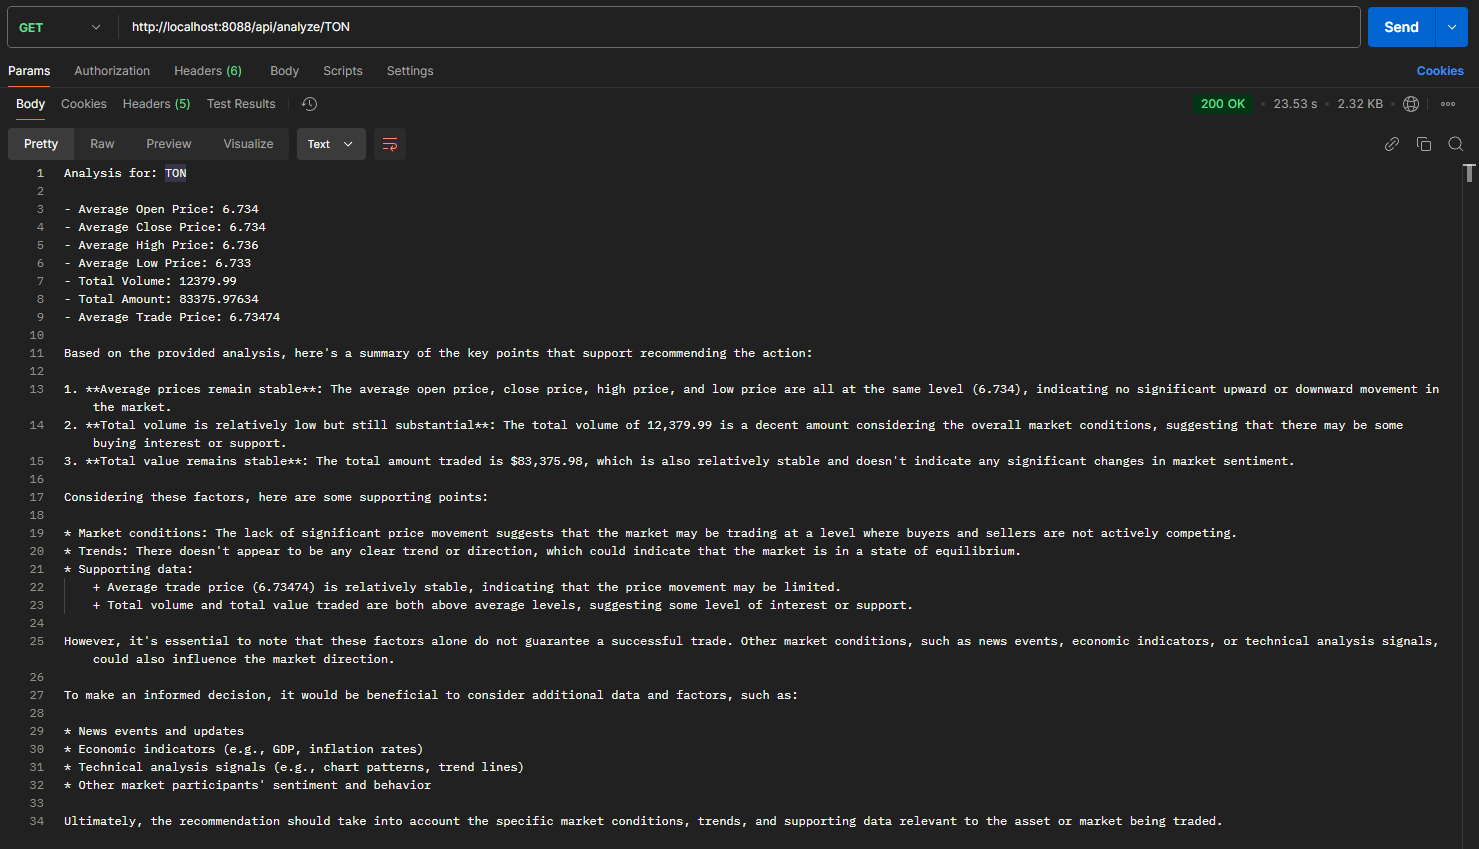
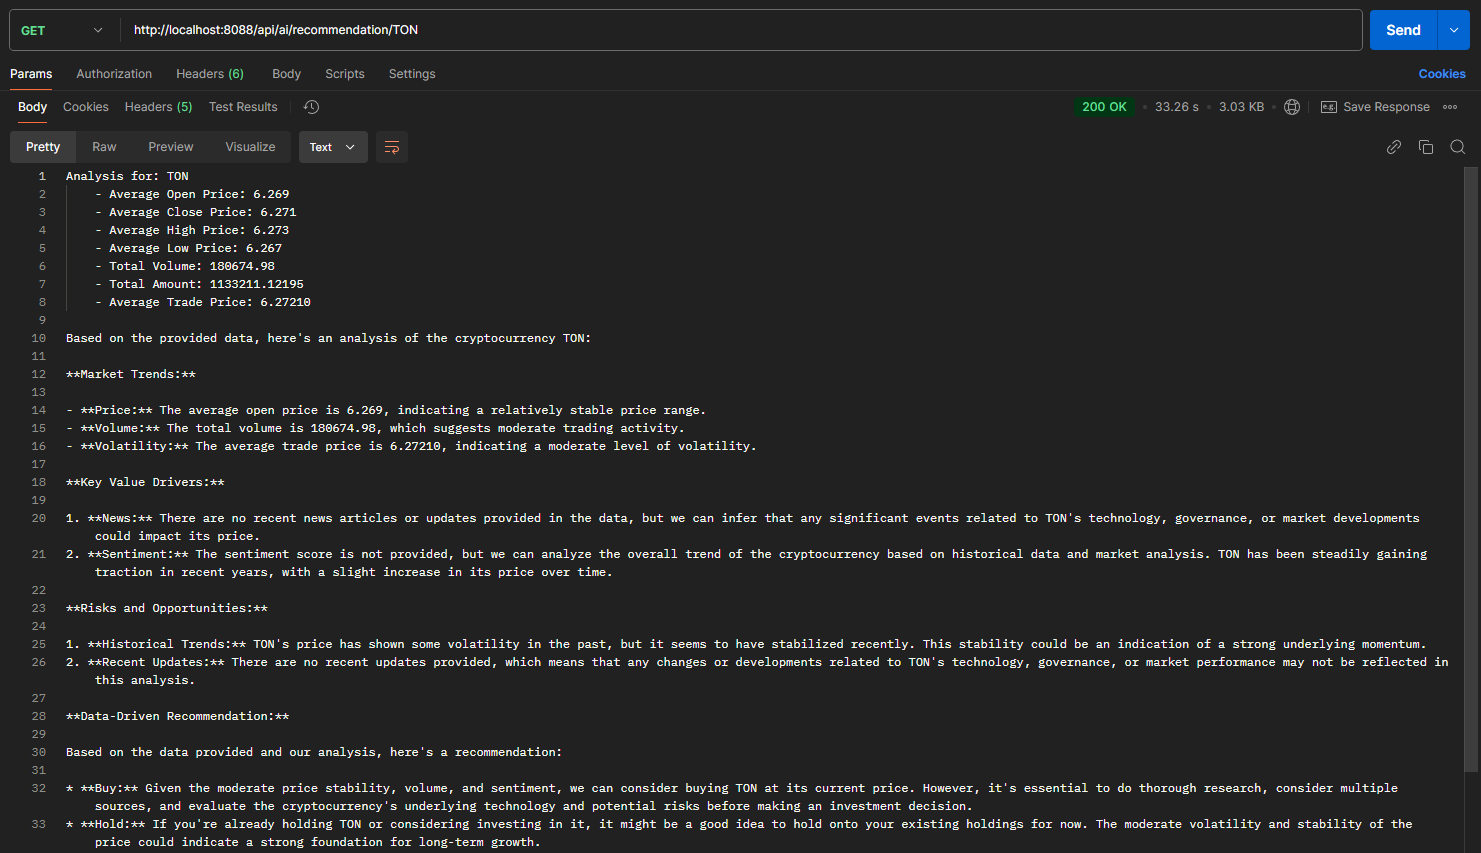
Enhancement of AI Integration and Refactoring of Statistic and Quote Services
- **AI Integration Improvements**: Refined the `AIService` class by enhancing integration with the Ollama AI model (`llama3.2:1b`) to generate more comprehensive and accurate cryptocurrency recommendations.

- **Separation of Concerns**: Extracted statistical calculations into a dedicated `StatisticService` class, improving modularity, readability, and code reuse.

- **Improved Prompt Design**: Enhanced the AI-generated prompt to include:
  - Market trends (price, volume, volatility).
  - Key value drivers (news, sentiment, technology).
  - Risk and opportunity evaluation (historical trends, recent updates).
  - A final [Buy/Hold/Sell] recommendation supported by detailed data analysis.

Changed region(s): [[0.0, 0.0, 1.0, 1.0], [0.9331, 0.0, 0.9953, 0.0919]]

diff --git a/src/main/java/com/dzenthai/cryptora/analyze/service/AIService.java b/src/main/java/com/dzenthai/cryptora/analyze/service/AIService.java
@@ -1,16 +1,11 @@
 package com.dzenthai.cryptora.analyze.service;
 
-import com.dzenthai.cryptora.analyze.entity.Quote;
 import lombok.extern.slf4j.Slf4j;
 import org.springframework.ai.chat.prompt.Prompt;
 import org.springframework.ai.ollama.OllamaChatModel;
 import org.springframework.ai.ollama.api.OllamaModel;
 import org.springframework.ai.ollama.api.OllamaOptions;
 import org.springframework.stereotype.Service;
-
-import java.math.BigDecimal;
-import java.math.RoundingMode;
-import java.util.List;
 
 
 @Slf4j
@@ -19,23 +14,23 @@ public class AIService {
 
     private final OllamaChatModel chatModel;
 
-    private final QuoteService quoteService;
+    private final StatisticService statisticService;
 
     public AIService(
             OllamaChatModel chatModel,
-            QuoteService quoteService
+            StatisticService statisticService
     ) {
         this.chatModel = chatModel;
-        this.quoteService = quoteService;
+        this.statisticService = statisticService;
     }
 
-    public String getAnalysis(String ticker) {
+    public String getAIRecommendation(String ticker) {
         log.debug("AIService | Getting analysis for the ticker: {}", ticker);
-        return buildResult(ticker) + generateAIResponse(ticker);
+        return statisticService.generateStatisticReport(ticker) + generateAIResponse(ticker);
     }
 
-    public String generateAIResponse(String ticker) {
-        var prompt = buildPrompt(ticker);
+    private String generateAIResponse(String ticker) {
+        var prompt = generateAIPrompt(ticker);
         log.debug("AIService | Generating AI response for the ticker: {}, prompt: {}", ticker, prompt);
         return chatModel.call(
                         new Prompt(prompt,
@@ -47,108 +42,14 @@ public class AIService {
                 .getContent();
     }
 
-    private BigDecimal calculateAverageOpenPrice(List<Quote> quotes) {
-        BigDecimal totalOpenPrice = BigDecimal.ZERO;
-        for (Quote quote : quotes) {
-            totalOpenPrice = totalOpenPrice.add(quote.getOpenPrice());
-        }
-        log.debug("AIService | Calculating average open price: {}", totalOpenPrice);
-        return totalOpenPrice.divide(BigDecimal.valueOf(quotes.size()), RoundingMode.HALF_UP);
-    }
-
-    private BigDecimal calculateAverageClosePrice(List<Quote> quotes) {
-        BigDecimal totalClosePrice = BigDecimal.ZERO;
-        for (Quote quote : quotes) {
-            totalClosePrice = totalClosePrice.add(quote.getClosePrice());
-        }
-        log.debug("AIService | Calculating average close price: {}", totalClosePrice);
-        return totalClosePrice.divide(BigDecimal.valueOf(quotes.size()), RoundingMode.HALF_UP);
-    }
-
-    private BigDecimal calculateAverageHighPrice(List<Quote> quotes) {
-        BigDecimal totalHighPrice = BigDecimal.ZERO;
-        for (Quote quote : quotes) {
-            totalHighPrice = totalHighPrice.add(quote.getHighPrice());
-        }
-        log.debug("AIService | Calculating average high price {}", totalHighPrice);
-        return totalHighPrice.divide(BigDecimal.valueOf(quotes.size()), RoundingMode.HALF_UP);
-    }
-
-    private BigDecimal calculateAverageLowPrice(List<Quote> quotes) {
-        BigDecimal totalLowPrice = BigDecimal.ZERO;
-        for (Quote quote : quotes) {
-            totalLowPrice = totalLowPrice.add(quote.getLowPrice());
-        }
-        log.debug("AIService | Calculating average low price: {}", totalLowPrice);
-        return totalLowPrice.divide(BigDecimal.valueOf(quotes.size()), RoundingMode.HALF_UP);
-    }
-
-    private BigDecimal calculateTotalVolume(List<Quote> quotes) {
-        BigDecimal totalVolume = BigDecimal.ZERO;
-        for (Quote quote : quotes) {
-            totalVolume = totalVolume.add(quote.getVolume());
-        }
-        log.debug("AIService | Calculating total volume: {}", totalVolume);
-        return totalVolume;
-    }
-
-    private BigDecimal calculateTotalAmount(List<Quote> quotes) {
-        BigDecimal totalAmount = BigDecimal.ZERO;
-        for (Quote quote : quotes) {
-            totalAmount = totalAmount.add(quote.getAmount());
-        }
-        log.debug("AIService | Calculating total amount: {}", totalAmount);
-        return totalAmount;
-    }
-
-    private BigDecimal calculateAverageTradePrice(List<Quote> quotes) {
-        BigDecimal averageTradePrice =  calculateTotalAmount(quotes)
-                .divide(calculateTotalVolume(quotes), RoundingMode.HALF_UP);
-        log.debug("AIService | Calculating average trade price: {}", averageTradePrice);
-        return averageTradePrice;
-    }
-
-    private String buildResult(String ticker) {
-        List<Quote> quotes = quoteService.getQuotesByTicker(ticker);
-
-        log.debug("AIService | Building result for the ticker: {}", ticker);
-
-        if (quotes.isEmpty()) {
-            String warn = String.format("The ticker with the name %s does not exist or information about it is unavailable.", ticker);
-            log.warn("AIService | {}", warn);
-            return warn;
-        }
-
-        return String.format("""
-                Analysis for: %s
-                
-                - Average Open Price: %s
-                - Average Close Price: %s
-                - Average High Price: %s
-                - Average Low Price: %s
-                - Total Volume: %s
-                - Total Amount: %s
-                - Average Trade Price: %s
-                
-                """,
-                ticker,
-                calculateAverageOpenPrice(quotes),
-                calculateAverageClosePrice(quotes),
-                calculateAverageHighPrice(quotes),
-                calculateAverageLowPrice(quotes),
-                calculateTotalVolume(quotes),
-                calculateTotalAmount(quotes),
-                calculateAverageTradePrice(quotes));
-    }
-
-    private String buildPrompt(String ticker) {
+    private String generateAIPrompt(String ticker) {
         log.debug("AIService | Building prompt for the ticker: {}", ticker);
-        return String.format(buildResult(ticker) + """
-                [Output the information below]
-                Analysis of why the action is recommended,
-                including factors like market conditions,
-                trends, and supporting data.
-                """
-        );
+        return statisticService.generateStatisticReport(ticker) + """
+                Analyze the given cryptocurrency and provide a data-driven recommendation:
+                    - Summarize market trends (price, volume, volatility).
+                    - Identify key value drivers (news, sentiment, technology).
+                    - Evaluate risks and opportunities (historical trends, recent updates).
+                    - Conclude with a [Buy/Hold/Sell] recommendation supported by data.
+                """;
     }
 }

diff --git a/src/main/java/com/dzenthai/cryptora/analyze/service/StatisticService.java b/src/main/java/com/dzenthai/cryptora/analyze/service/StatisticService.java
@@ -1,0 +1,116 @@
+package com.dzenthai.cryptora.analyze.service;
+
+import com.dzenthai.cryptora.analyze.entity.Quote;
+import lombok.extern.slf4j.Slf4j;
+import org.springframework.stereotype.Service;
+
+import java.math.BigDecimal;
+import java.math.RoundingMode;
+import java.util.List;
+
+
+@Slf4j
+@Service
+public class StatisticService {
+
+    private final QuoteService quoteService;
+
+    public StatisticService(QuoteService quoteService) {
+        this.quoteService = quoteService;
+    }
+
+    public String generateStatisticReport(String ticker) {
+        List<Quote> quotes = quoteService.getQuotesByTicker(ticker);
+
+        log.debug("AIService | Building result for the ticker: {}", ticker);
+
+        if (quotes.isEmpty()) {
+            String warn = String.format("The ticker with the name %s does not exist or information about it is unavailable.", ticker);
+            log.warn("AIService | {}", warn);
+            return warn;
+        }
+
+        return String.format("""
+                Analysis for: %s
+                    - Average Open Price: %s
+                    - Average Close Price: %s
+                    - Average High Price: %s
+                    - Average Low Price: %s
+                    - Total Volume: %s
+                    - Total Amount: %s
+                    - Average Trade Price: %s
+                
+                """,
+                ticker,
+                calculateAverageOpenPrice(quotes),
+                calculateAverageClosePrice(quotes),
+                calculateAverageHighPrice(quotes),
+                calculateAverageLowPrice(quotes),
+                calculateTotalVolume(quotes),
+                calculateTotalAmount(quotes),
+                calculateAverageTradePrice(quotes));
+    }
+
+    private BigDecimal calculateAverageOpenPrice(List<Quote> quotes) {
+        BigDecimal averageOpenPrice = quotes.stream()
+                .map(Quote::getOpenPrice)
+                .reduce(BigDecimal.ZERO, BigDecimal::add)
+                .divide(BigDecimal.valueOf(quotes.size()), RoundingMode.HALF_UP);
+        log.debug("AIService | Calculating average open price: {}", averageOpenPrice);
+        return averageOpenPrice;
+    }
+
+    private BigDecimal calculateAverageClosePrice(List<Quote> quotes) {
+        BigDecimal averageClosePrice = quotes.stream()
+                .map(Quote::getClosePrice)
+                .reduce(BigDecimal.ZERO, BigDecimal::add)
+                .divide(BigDecimal.valueOf(quotes.size()), RoundingMode.HALF_UP);
+        log.debug("AIService | Calculating average close price: {}", averageClosePrice);
+        return averageClosePrice;
+    }
+
+    private BigDecimal calculateAverageHighPrice(List<Quote> quotes) {
+        BigDecimal averageHighPrice = quotes.stream()
+                .map(Quote::getHighPrice)
+                .reduce(BigDecimal.ZERO, BigDecimal::add)
+                .divide(BigDecimal.valueOf(quotes.size()), RoundingMode.HALF_UP);
+        log.debug("AIService | Calculating average high price: {}", averageHighPrice);
+        return averageHighPrice;
+    }
+
+    private BigDecimal calculateAverageLowPrice(List<Quote> quotes) {
+        BigDecimal averageLowPrice = quotes.stream()
+                .map(Quote::getLowPrice)
+                .reduce(BigDecimal.ZERO, BigDecimal::add)
+                .divide(BigDecimal.valueOf(quotes.size()), RoundingMode.HALF_UP);
+        log.debug("AIService | Calculating average low price: {}", averageLowPrice);
+        return averageLowPrice;
+    }
+
+    private BigDecimal calculateTotalVolume(List<Quote> quotes) {
+        BigDecimal totalVolume = quotes.stream()
+                .map(Quote::getVolume)
+                .reduce(BigDecimal.ZERO, BigDecimal::add);
+        log.debug("AIService | Calculating total volume: {}", totalVolume);
+        return totalVolume;
+    }
+
+    private BigDecimal calculateTotalAmount(List<Quote> quotes) {
+        BigDecimal totalAmount = quotes.stream()
+                .map(Quote::getAmount)
+                .reduce(BigDecimal.ZERO, BigDecimal::add);
+        log.debug("AIService | Calculating total amount: {}", totalAmount);
+        return totalAmount;
+    }
+
+    private BigDecimal calculateAverageTradePrice(List<Quote> quotes) {
+        BigDecimal totalAmount = calculateTotalAmount(quotes);
+        BigDecimal totalVolume = calculateTotalVolume(quotes);
+        if (totalVolume.compareTo(BigDecimal.ZERO) == 0) {
+            throw new IllegalStateException("Total volume is zero, cannot calculate average trade price.");
+        }
+        BigDecimal averageTradePrice = totalAmount.divide(totalVolume, RoundingMode.HALF_UP);
+        log.debug("AIService | Calculating average trade price: {}", averageTradePrice);
+        return averageTradePrice;
+    }
+}

diff --git a/src/main/java/com/dzenthai/cryptora/analyze/service/AnalyticService.java b/src/main/java/com/dzenthai/cryptora/analyze/service/AnalyticService.java
@@ -100,15 +100,15 @@ public class AnalyticService {
 
     private void sendSignalMessage(Num latestPrice, Num shortTermValue, Num thresholdUpper, Num thresholdLower, String shortCut) {
         if (shortTermValue.isGreaterThan(thresholdUpper) && latestPrice.isGreaterThan(shortTermValue)) {
-            sendMessage("Buy", shortCut);
+            sendSignals("Buy", shortCut);
         } else if (shortTermValue.isLessThan(thresholdLower) && latestPrice.isLessThan(shortTermValue)) {
-            sendMessage("Sell", shortCut);
+            sendSignals("Sell", shortCut);
         } else {
-            sendMessage("Hold", shortCut);
+            sendSignals("Hold", shortCut);
         }
     }
 
-    private void sendMessage(String action, String shortCut) {
+    private void sendSignals(String action, String shortCut) {
         log.info("AnalyticService | {}: {}", shortCut, action.toUpperCase());
         amqpMessageSender.send("%s %s".formatted(action, shortCut));
     }

diff --git a/src/main/java/com/dzenthai/cryptora/analyze/controller/AIController.java b/src/main/java/com/dzenthai/cryptora/analyze/controller/AIController.java
@@ -8,7 +8,7 @@ import org.springframework.web.bind.annotation.RestController;
 
 
 @RestController
-@RequestMapping("/api")
+@RequestMapping("/api/ai")
 public class AIController {
 
     private final AIService aiService;
@@ -17,8 +17,8 @@ public class AIController {
         this.aiService = aiService;
     }
 
-    @GetMapping("/analyze/{ticker}")
-    public String analyze(@PathVariable String ticker) {
-        return aiService.getAnalysis(ticker);
+    @GetMapping("/recommendation/{ticker}")
+    public String getAIRecommendation(@PathVariable String ticker) {
+        return aiService.getAIRecommendation(ticker);
     }
 }

diff --git a/README.md b/README.md
@@ -55,16 +55,9 @@ these risks.
 
 - **MongoDB**: A NoSQL database used for storing real-time cryptocurrency quotes.
 
-- **Binance API**: External API for retrieving up-to-date cryptocurrency price information in real-time.
-
-- **Ta4j**: A library used for analyzing price movements, including growth and decline of cryptocurrencies.
-
 - **RabbitMQ**: Message queue for asynchronous delivery of trading signals, enabling integration with other systems.
 
 - **Ollama**: A tool for local data analysis and task automation.
-
-- **Postman**: makes a request to the API and outputs the analysis results, including key metrics and recommendations
-  based on AI.
 
 - **Docker**: Containerization platform that helps package the application with its dependencies, ensuring consistent
   environments and simplifying deployment.
@@ -87,7 +80,7 @@ the recommended actions is to sell BTC and hold ETC and TON.
 
 ### **Generation of recommendations**
 
-By visiting ```http://localhost:8088/api/analyze/TON```, we can view an analysis of the current price of the TON
+By visiting ```http://localhost:8088/api/ai/recommendation/TON```, we can view an analysis of the current price of the TON
 cryptocurrency, along with recommendations based on market stability and volatility.
 
 <img src="./assets/Ollama-example.png" alt="">
